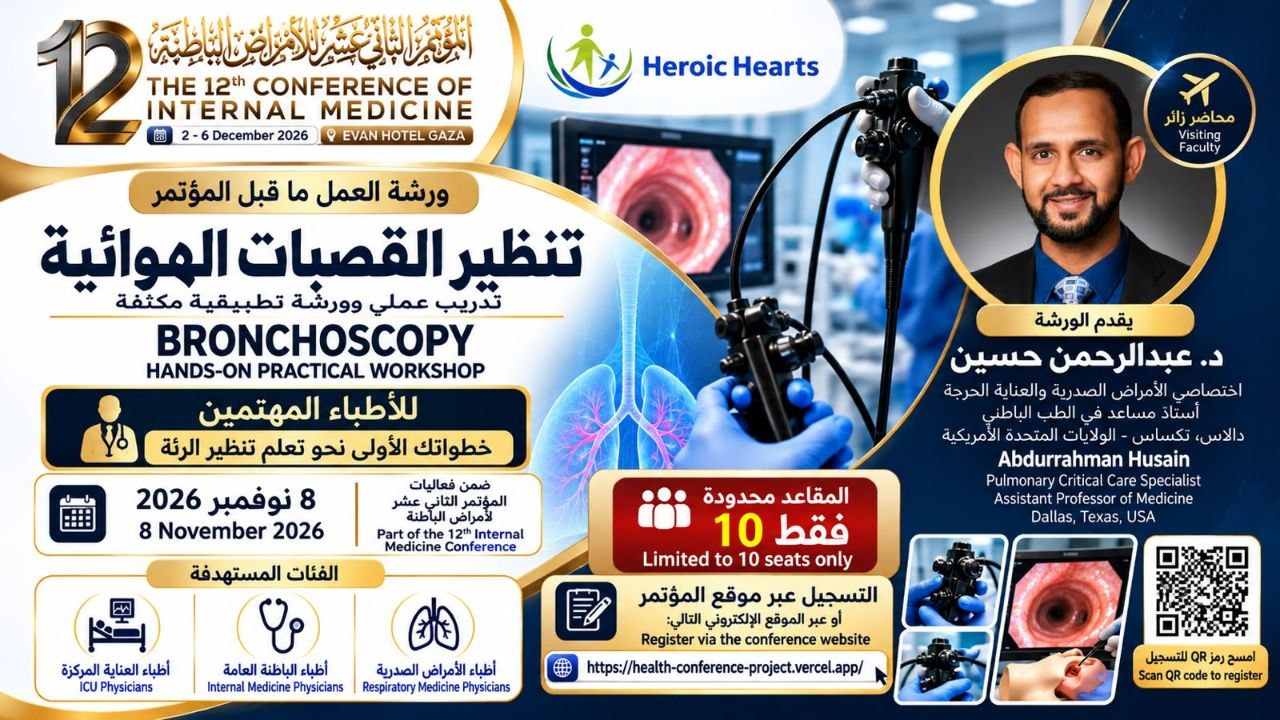
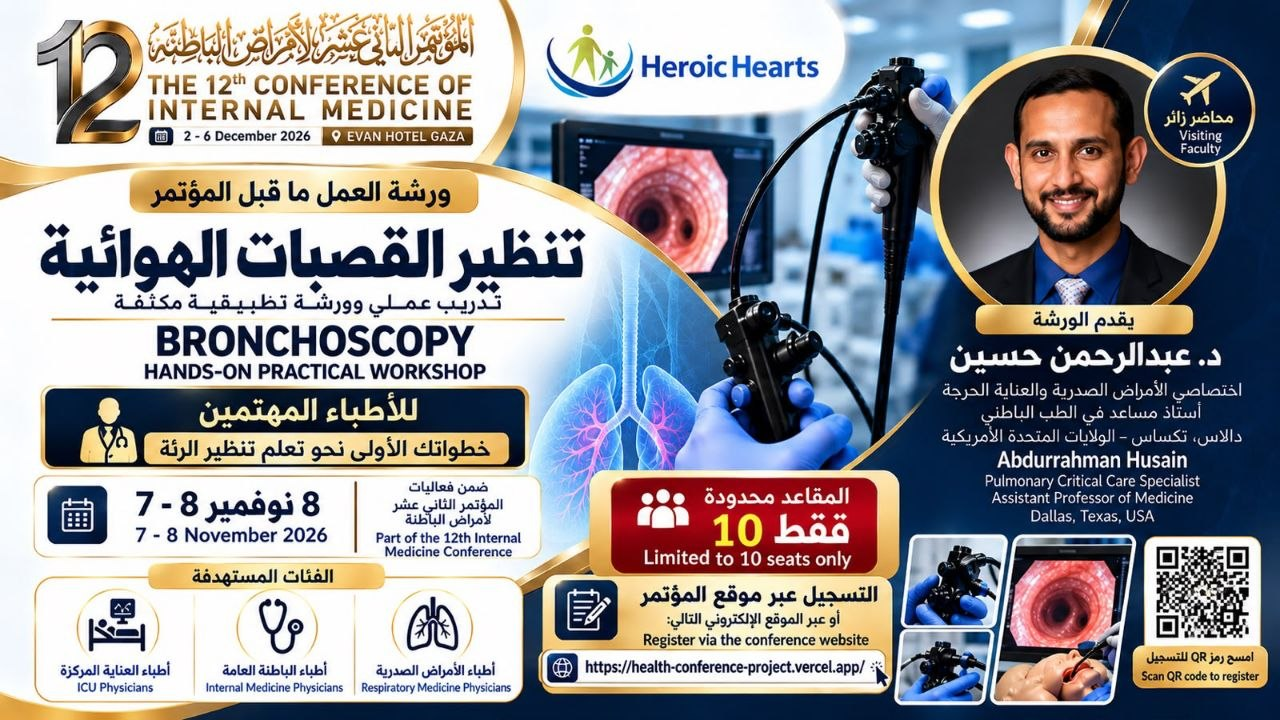
fix: add prisma client and bronchoscopy registration

diff --git a/app/registration/bronchoscopy/page.jsx b/app/registration/bronchoscopy/page.jsx
@@ -78,7 +78,7 @@ export default function BronchoscopyRegistration() {
           borderRadius: 12, padding: "14px 20px", marginBottom: 24,
           fontSize: 13, color: "#854d0e", fontWeight: 600,
         }}>
-          📅 7 – 8 نوفمبر 2026 · مستشفى ناصر · غزة
+          📅  8 نوفمبر 2026 · مستشفى ناصر · خانيونس
         </div>
         <div style={{ fontSize: 12, color: "#94a3b8" }}>
           المقاعد محدودة — 10 أماكن فقط
@@ -211,7 +211,7 @@ export default function BronchoscopyRegistration() {
                 تسجيل ورشة تنظير القصبات الهوائية
               </div>
               <div style={{ fontSize: 13, color: "#64748b" }}>
-                د. عبدالرحمن حسين · 8 نوفمبر 2026 · مستشفى ناصر
+                د. عبدالرحمن حسين · 7–8 نوفمبر 2026 · مستشفى ناصر
               </div>
             </div>
 
@@ -321,7 +321,7 @@ export default function BronchoscopyRegistration() {
                 fontSize: 12, color: "#065f46", lineHeight: 1.8,
               }}>
                 ✅ التسجيل المجاني للأوائل العشرة<br />
-                📍 مستشفى ناصر · خانيونس · 8 نوفمبر 2026<br />
+                📍 مستشفى ناصر · غزة · 7–8 نوفمبر 2026<br />
                 📞 سيتم التواصل معك للتأكيد عبر الواتساب
               </div>
 

diff --git a/app/dashboard/bronchoscopy/page.jsx b/app/dashboard/bronchoscopy/page.jsx
@@ -123,7 +123,7 @@ export default function BronchoscopyDashboard() {
               🫁 ورشة تنظير القصبات الهوائية
             </div>
             <div style={{ fontSize: 13, color: "rgba(255,255,255,0.65)" }}>
-              Bronchoscopy Workshop · 8 نوفمبر 2026 · د. عبدالرحمن حسين
+              Bronchoscopy Workshop · 7–8 نوفمبر 2026 · د. عبدالرحمن حسين
             </div>
           </div>
           <div style={{ display: "flex", gap: 10 }}>
